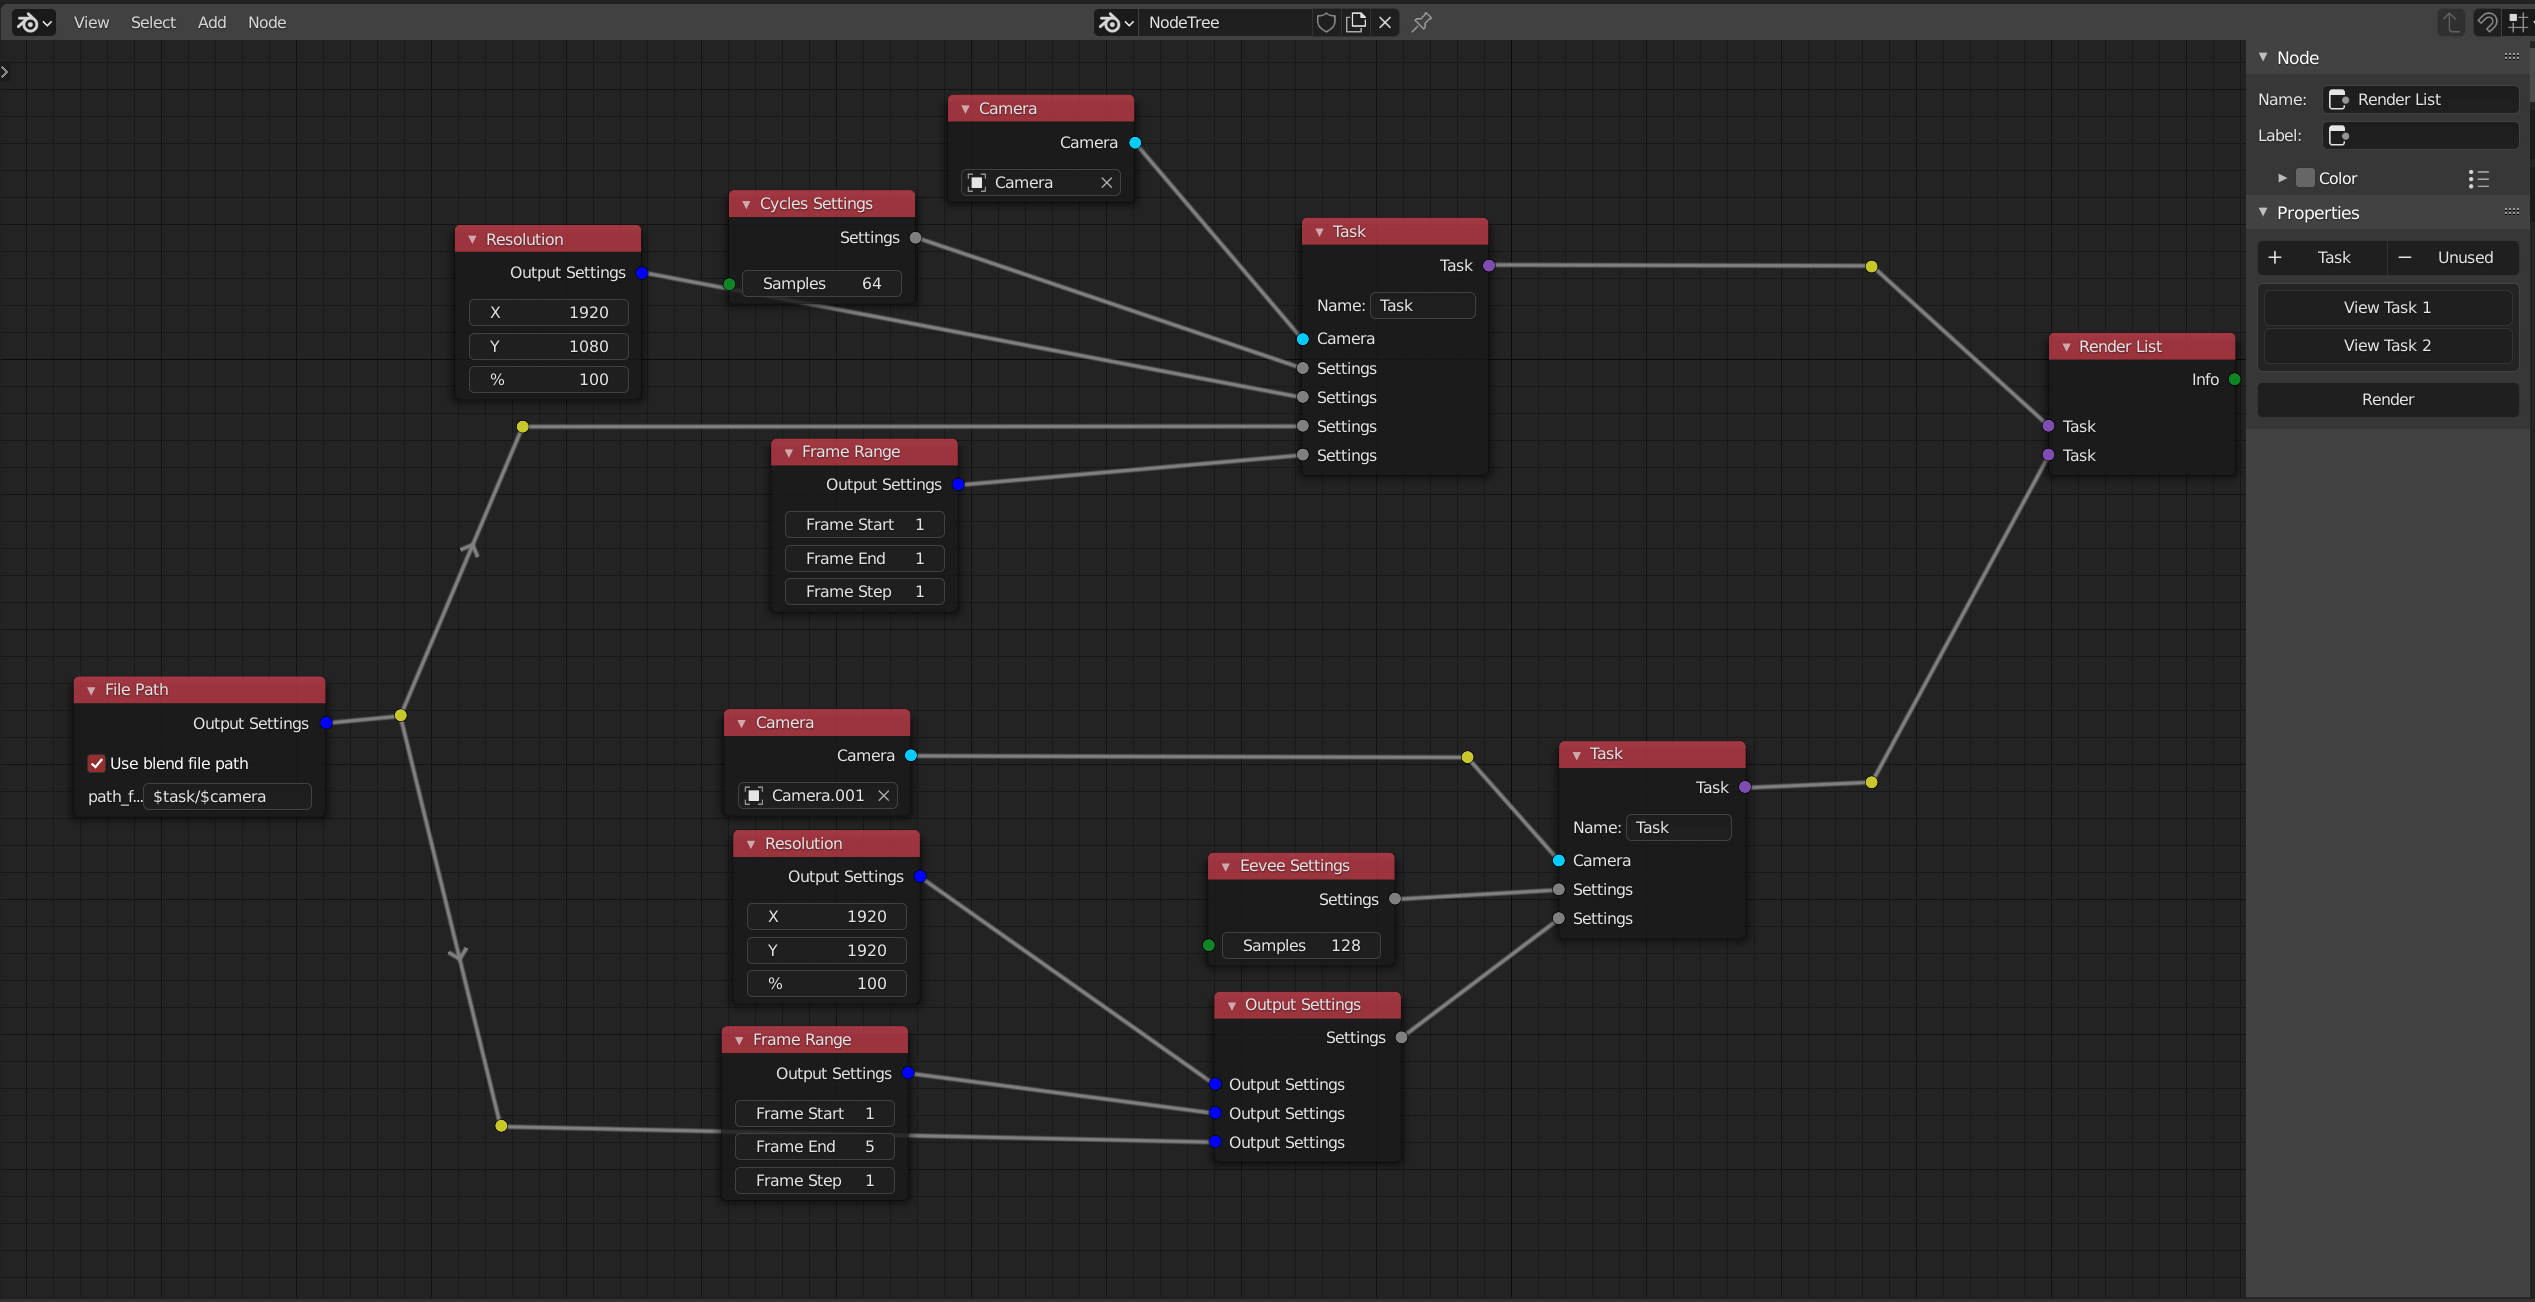
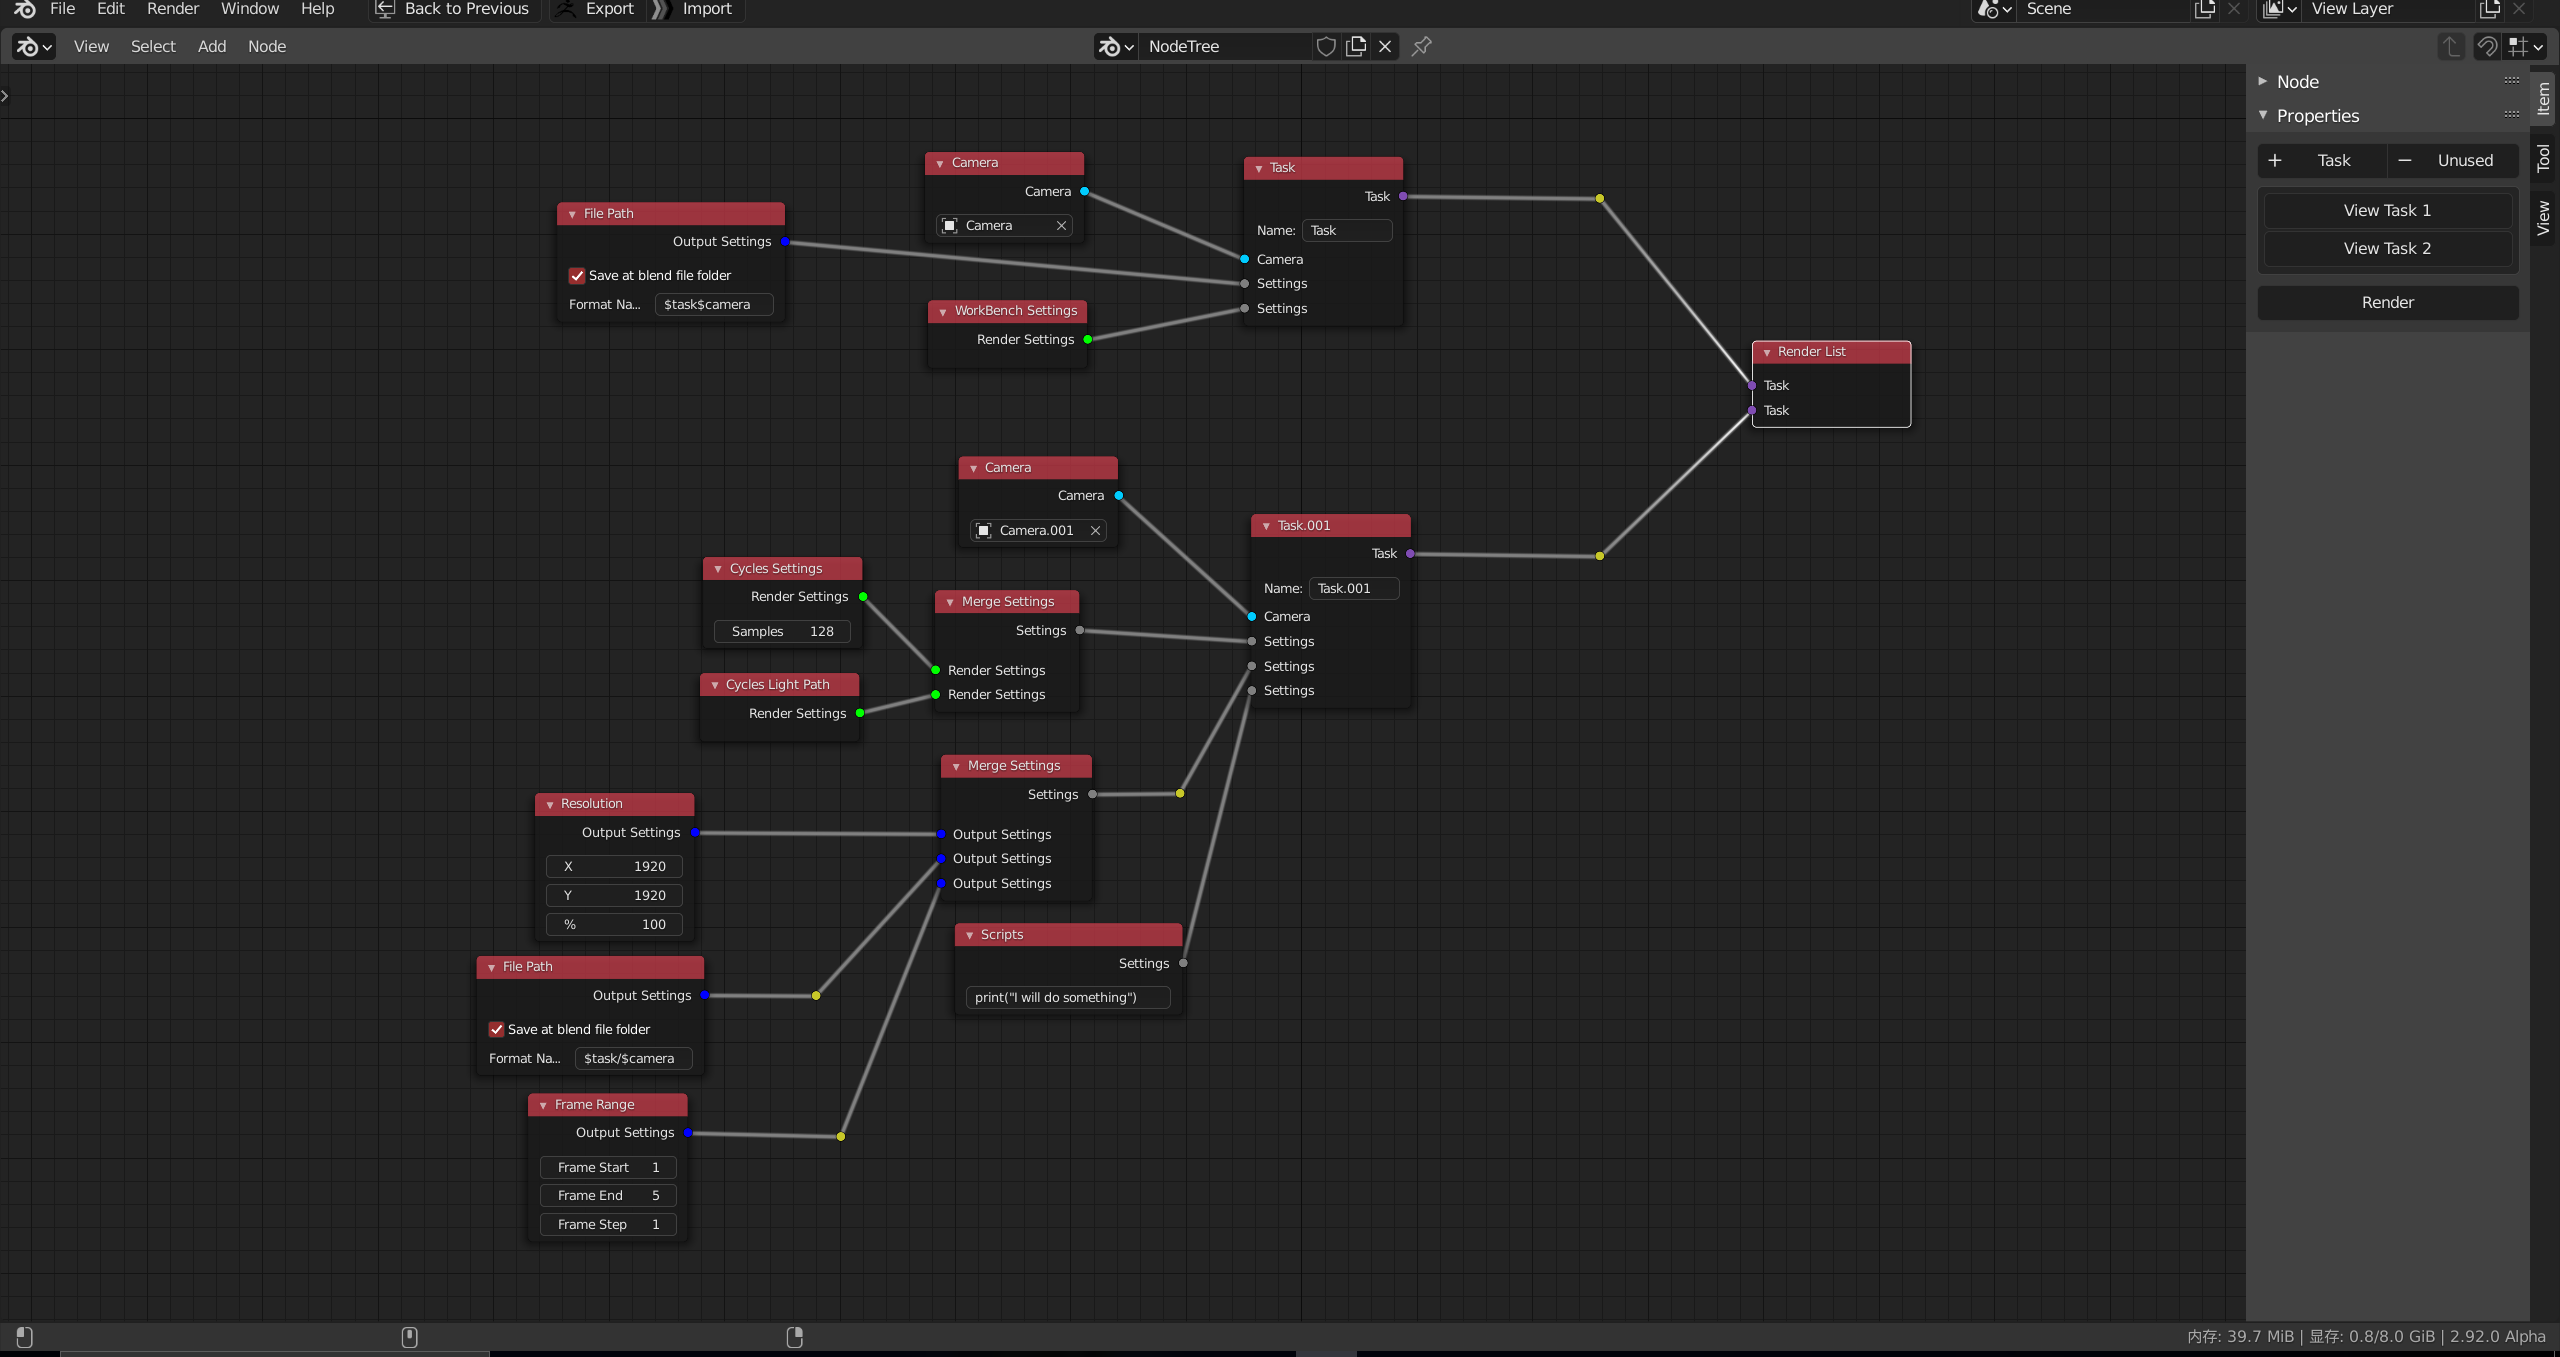
category and some layout nodes

diff --git a/node_tree.py b/node_tree.py
@@ -24,12 +24,6 @@ class RenderStackNode(bpy.types.Node):
         print("Node removed", self)
 
 
-class RenderStackNodeCategory(nodeitems_utils.NodeCategory):
-    @classmethod
-    def poll(cls, context):
-        return context.space_data.tree_type == 'RenderStackNodeTree'
-
-
 #
 #  Sockets
 #
@@ -90,46 +84,69 @@ class RSNodeSocketRenderList(bpy.types.NodeSocket):
         return (0.5, 0.3, 0.7, 1.0)
 
 
-node_categories = [
+#
+#  Category
+#
 
-    RenderStackNodeCategory("CAMERA", "Camera", items=[
+class RSNCategory(nodeitems_utils.NodeCategory):
+    @classmethod
+    def poll(cls, context):
+        return context.space_data.tree_type == 'RenderStackNodeTree'
+
+
+node_categorys = [
+
+    RSNCategory("CAMERA", "Camera", items=[
         nodeitems_utils.NodeItem("RSNodeCamInputNode"),
     ]),
-
-    RenderStackNodeCategory("RENDER_ENGINES", "Render Engines", items=[
-        nodeitems_utils.NodeItem("RSNodeSettingsMergeNode", label="Merge Render Settings", settings={
-            "node_type": repr("RENDER_SETTINGS"),
-        }),
-        nodeitems_utils.NodeItem("RSNodeWorkBenchRenderSettingsNode"),
-        nodeitems_utils.NodeItem("RSNodeEeveeRenderSettingsNode"),
-        nodeitems_utils.NodeItem("RSNodeCyclesRenderSettingsNode"),
+    RSNCategory("LIGHTS", "Lights", items=[
+        nodeitems_utils.NodeItem("RSNodeWorldInputNode"),
 
     ]),
 
-    RenderStackNodeCategory("OUTPUT_SETTINGS", "Output Settings", items=[
-        nodeitems_utils.NodeItem("RSNodeSettingsMergeNode", label="Merge Output Settings", settings={
-            "node_type": repr("OUTPUT_SETTINGS"),
-        }),
+    RSNCategory("SCRIPTS", "Scripts", items=[
+        nodeitems_utils.NodeItem("RSScriptsNode"),
+        nodeitems_utils.NodeItem("RSFileScriptsNode"),
 
+    ]),
+
+    RSNCategory("OUTPUT_SETTINGS", "Output Settings", items=[
         nodeitems_utils.NodeItem("ResolutionInputNode"),
         nodeitems_utils.NodeItem("FrameRangeInputNode"),
         nodeitems_utils.NodeItem("ImageFormatInputNode"),
         nodeitems_utils.NodeItem("FilePathInputNode"),
     ]),
 
-    RenderStackNodeCategory("TASK", "Task", items=[
+    RSNCategory("TASK", "Task", items=[
         nodeitems_utils.NodeItem("RSNodeTaskNode"),
         nodeitems_utils.NodeItem("RSNodeRenderListNode"),
 
     ]),
 
-    RenderStackNodeCategory("SCRIPTS", "Scripts", items=[
-        nodeitems_utils.NodeItem("RSSettingsScriptsNode"),
-        nodeitems_utils.NodeItem("RSFileScriptsNode"),
+    RSNCategory("WORKBENCH", "Workbench", items=[
+        nodeitems_utils.NodeItem("RSNodeWorkBenchRenderSettingsNode"),
 
     ]),
 
+    RSNCategory("EEVEE", "Eevee", items=[
+        nodeitems_utils.NodeItem("RSNodeEeveeRenderSettingsNode"),
 
+    ]),
+
+    RSNCategory("CYCLES", "Cycles", items=[
+        nodeitems_utils.NodeItem("RSNodeCyclesRenderSettingsNode"),
+        nodeitems_utils.NodeItem("RSNodeCyclesLightPathNode"),
+    ]),
+
+    RSNCategory("LAYOUT", "Layout", items=[
+        nodeitems_utils.NodeItem("RSNodeSettingsMergeNode", label="Merge Render Settings", settings={
+            "node_type": repr("RENDER_SETTINGS"),
+        }),
+        nodeitems_utils.NodeItem("RSNodeSettingsMergeNode", label="Merge Output Settings", settings={
+            "node_type": repr("OUTPUT_SETTINGS"),
+        }),
+
+    ]),
 ]
 
 classes = [
@@ -144,14 +161,19 @@ classes = [
 
 
 def register():
+    try:
+        nodeitems_utils.unregister_node_categories("RSNCategory")
+    except:
+        pass
+
     for cls in classes:
         bpy.utils.register_class(cls)
 
-    nodeitems_utils.register_node_categories("RENDERSTACK_NODES", node_categories)
+    nodeitems_utils.register_node_categories("RSNCategory", node_categorys)
 
 
 def unregister():
-    nodeitems_utils.unregister_node_categories("RENDERSTACK_NODES")
+    nodeitems_utils.unregister_node_categories("RSNCategory")
 
     for cls in classes:
         bpy.utils.unregister_class(cls)

diff --git a/nodes/cycles_settings/CyclesLightPathNode.py b/nodes/cycles_settings/CyclesLightPathNode.py
@@ -1,0 +1,41 @@
+import bpy
+from bpy.props import *
+from RenderStackNode.node_tree import RenderStackNode
+
+
+class RSNodeCyclesLightPathNode(RenderStackNode):
+    '''A simple input node'''
+    bl_idname = 'RSNodeCyclesLightPathNode'
+    bl_label = 'Cycles Light Path'
+
+    max_bounces:IntProperty(default=12)
+    diffuse_bounces:IntProperty(default=4)
+    glossy_bounces:IntProperty(default=4)
+    transparent_max_bounces:IntProperty(default=8)
+    transmission_bounces:IntProperty(default=12)
+    volume_bounces:IntProperty(default=0)
+
+    def init(self, context):
+        self.outputs.new('RSNodeSocketRenderSettings', "Render Settings")
+
+    def draw_buttons(self, context, layout):
+        pass
+
+    def draw_buttons_ext(self, context, layout):
+        col = layout.column(align=True)
+        col.prop(self, "max_bounces", text="Total")
+
+        col = layout.column(align=True)
+        col.prop(self, "diffuse_bounces", text="Diffuse")
+        col.prop(self, "glossy_bounces", text="Glossy")
+        col.prop(self, "transparent_max_bounces", text="Transparency")
+        col.prop(self, "transmission_bounces", text="Transmission")
+        col.prop(self, "volume_bounces", text="Volume")
+
+
+
+def register():
+    bpy.utils.register_class(RSNodeCyclesLightPathNode)
+
+def unregister():
+    bpy.utils.unregister_class(RSNodeCyclesLightPathNode)

diff --git a/nodes/cycles_settings/CyclesRenderSettingsNode.py b/nodes/cycles_settings/CyclesRenderSettingsNode.py
@@ -11,22 +11,13 @@ class RSNodeCyclesRenderSettingsNode(RenderStackNode):
     samples:IntProperty(default=128,min = 1,name = "Cycles Samples")
 
     def init(self, context):
-        self.outputs.new('RSNodeSocketTaskSettings', "Settings")
+        self.outputs.new('RSNodeSocketRenderSettings', "Render Settings")
 
     def draw_buttons(self, context, layout):
         layout.prop(self,"samples",text= 'Samples')
 
     def draw_buttons_ext(self, context, layout):
-        layout.prop(self,"samples",text= 'Samples')
-        layout.scale_y = 1.25
-        row = layout.row(align=True)
-        add = row.operator("rsnode.edit_input", text="Option", icon='ADD')
-        add.remove = False
-        add.socket_type = "RSNodeSocketRenderSettings"
-        add.socket_name = "Option"
-
-        remove = row.operator("rsnode.edit_input", text="Unused", icon='REMOVE')
-        remove.remove = True
+        pass
 
 
 def register():

diff --git a/nodes/scripts/ScriptsNode.py b/nodes/scripts/ScriptsNode.py
@@ -3,15 +3,15 @@ from bpy.props import *
 from RenderStackNode.node_tree import RenderStackNode
 
 
-class RSSettingsScriptsNode(RenderStackNode):
+class RSScriptsNode(RenderStackNode):
     '''A simple input node'''
-    bl_idname = 'RSSettingsScriptsNode'
+    bl_idname = 'RSScriptsNode'
     bl_label = 'Scripts'
 
     code:StringProperty(name = 'Code to execute',default='')
 
     def init(self, context):
-        self.outputs.new('RSNodeSocketRenderSettings', "Script")
+        self.outputs.new('RSNodeSocketTaskSettings', "Settings")
         self.width = 200
 
 
@@ -21,7 +21,7 @@ class RSSettingsScriptsNode(RenderStackNode):
 
 
 def register():
-    bpy.utils.register_class(RSSettingsScriptsNode)
+    bpy.utils.register_class(RSScriptsNode)
 
 def unregister():
-    bpy.utils.unregister_class(RSSettingsScriptsNode)
+    bpy.utils.unregister_class(RSScriptsNode)

diff --git a/nodes/world/WorldInputNode.py b/nodes/world/WorldInputNode.py
@@ -1,0 +1,26 @@
+import bpy
+from bpy.props import *
+from RenderStackNode.node_tree import RenderStackNode
+
+
+class RSNodeWorldInputNode(RenderStackNode):
+    '''A simple input node'''
+    bl_idname = 'RSNodeWorldInputNode'
+    bl_label = 'World'
+
+    world: PointerProperty(name="World", type=bpy.types.World)
+
+    def init(self, context):
+        self.outputs.new('RSNodeSocketTaskSettings', "Settings")
+        self.width = 150
+
+    def draw_buttons(self, context, layout):
+        layout.prop(self, 'world', text="")
+
+
+
+def register():
+    bpy.utils.register_class(RSNodeWorldInputNode)
+
+def unregister():
+    bpy.utils.unregister_class(RSNodeWorldInputNode)

diff --git a/utility.py b/utility.py
@@ -102,7 +102,7 @@ class NODE_TREE():
                 task_data['path_format'] = node.path_format
                 task_data['path'] = node.path
 
-            elif node.bl_idname == 'RSSettingsScriptsNode':
+            elif node.bl_idname == 'RSScriptsNode':
                 if 'scripts' in task_data:
                     task_data['scripts'][node.name] = node.code
                 else:

diff --git a/nodes/eevee_settings/EeveeRenderSettingNode.py b/nodes/eevee_settings/EeveeRenderSettingNode.py
@@ -10,7 +10,7 @@ class RSNodeEeveeRenderSettingsNode(RenderStackNode):
     samples: IntProperty(default=64, min=1, name="Eevee Samples")
 
     def init(self, context):
-        self.outputs.new('RSNodeSocketTaskSettings', "Settings")
+        self.outputs.new('RSNodeSocketRenderSettings', "Render Settings")
 
         self.inputs["Samples"].default_value = 128
 

diff --git a/nodes/workbench_settings/WorkBenchRenderSettingsNode.py b/nodes/workbench_settings/WorkBenchRenderSettingsNode.py
@@ -8,7 +8,7 @@ class WorkBenchRenderSettingsNode(RenderStackNode):
     bl_label = 'WorkBench Settings'
 
     def init(self, context):
-        self.outputs.new('RSNodeSocketTaskSettings', "Settings")
+        self.outputs.new('RSNodeSocketRenderSettings', "Render Settings")
 
     def draw_buttons(self, context, layout):
         pass

diff --git a/nodes/scripts/FileScriptsNode.py b/nodes/scripts/FileScriptsNode.py
@@ -11,7 +11,7 @@ class RSFileScriptsNode(RenderStackNode):
     file:PointerProperty(type=bpy.types.Text,name = "Scripts file")
 
     def init(self, context):
-        self.outputs.new('RSNodeSocketRenderSettings', "Script")
+        self.outputs.new('RSNodeSocketTaskSettings', "Settings")
         self.width = 200
 
 
